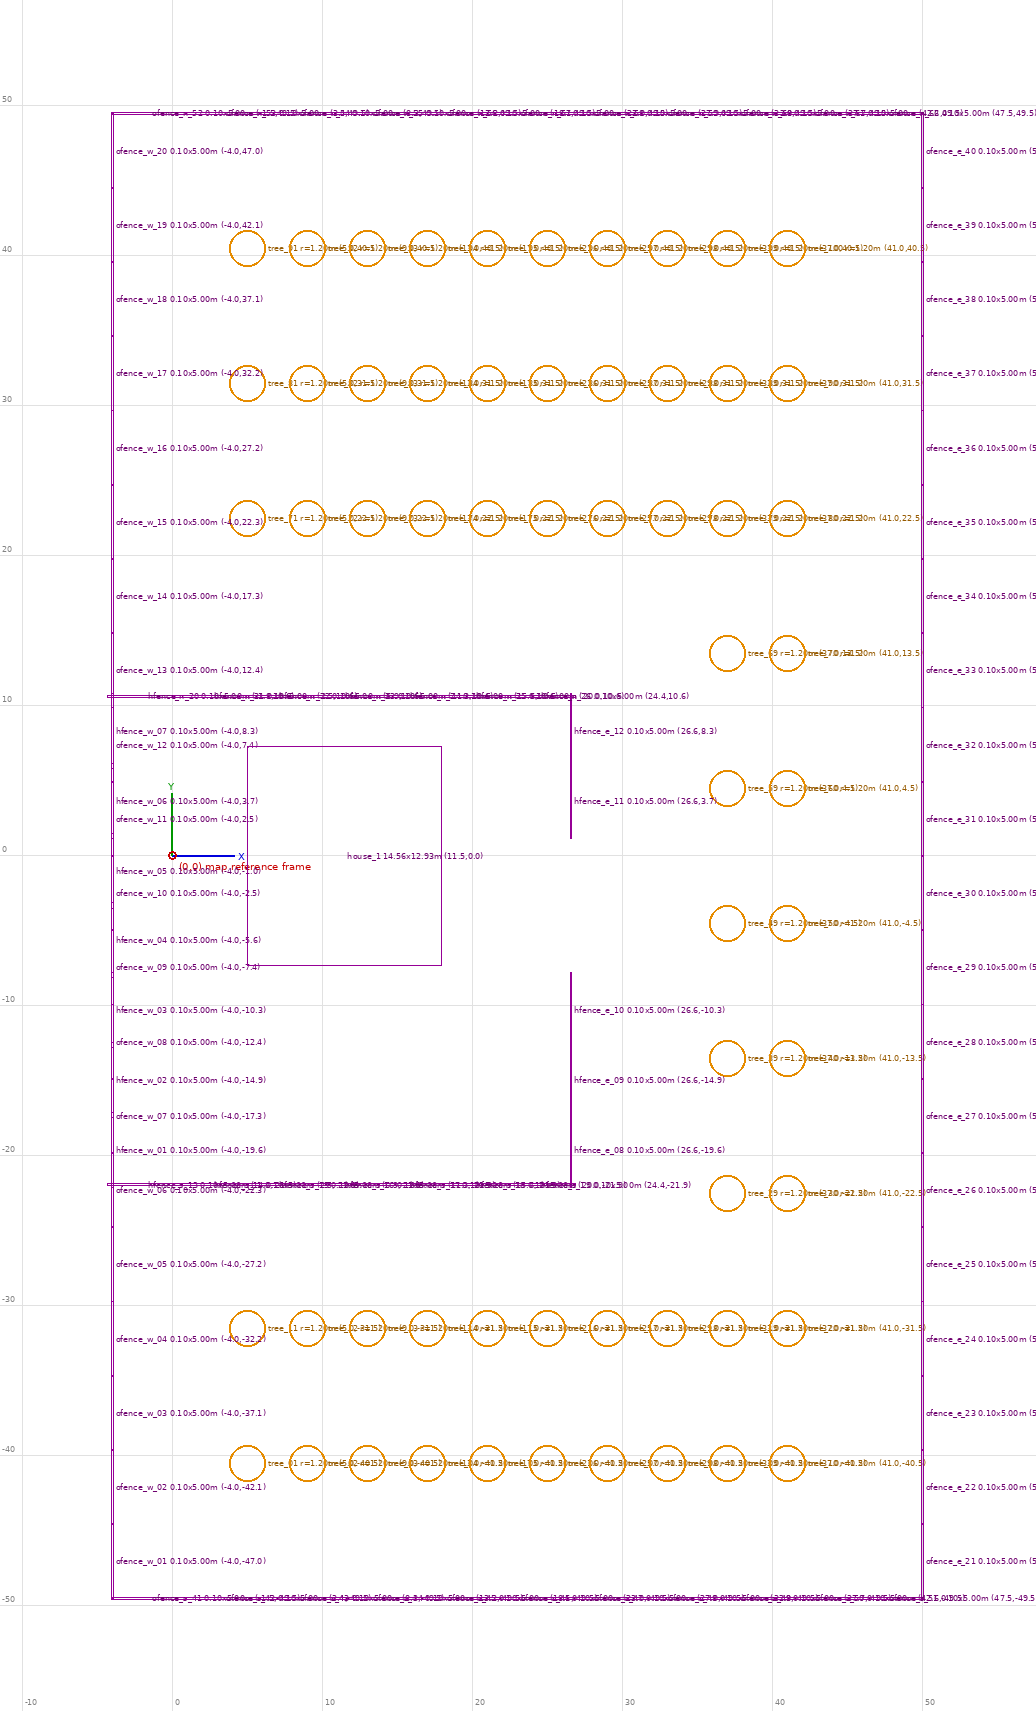
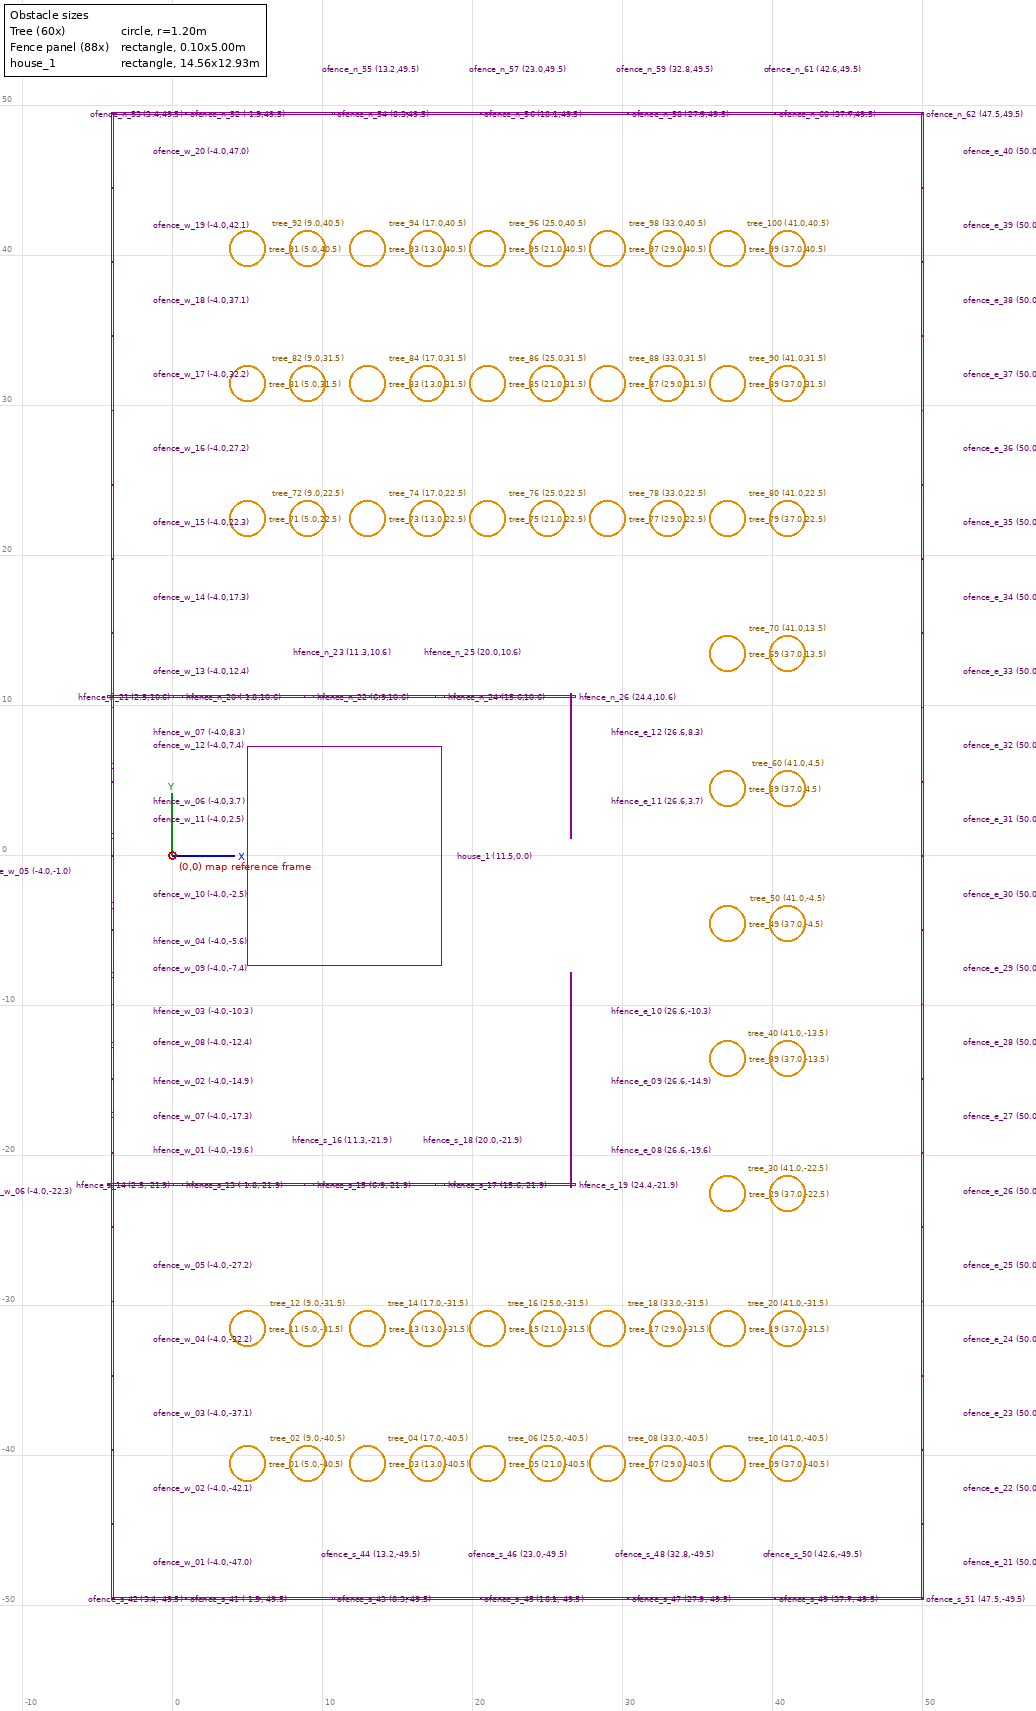
Add obstacle-size table and declutter labels in dimensioned diagrams
Per-instance labels used to repeat each obstacle's full size (~150
times over for map_a's 60 trees + 88 fence panels), badly cluttering
closely-spaced rows. Added a "Obstacle sizes" table (one row per
distinct type -- trees share one radius, fence panels share one size,
the house gets its own row) in the top-left corner, and shortened
per-instance labels to just id + position.

Also added a greedy label-placement pass (_place_label): each label
tries 8 candidate offsets around its own obstacle and picks the first
that doesn't overlap any label already placed (including the
reference-frame label and the size table itself), instead of always
drawing to the same fixed offset -- this is what was piling every
label from a dense row on top of each other. Falls back to the first
candidate (possibly still overlapping) only when every candidate
collides, which still happens in the very tightest rows (4m tree
spacing) -- an inherent density limit, not a placement bug.

Claude-Session: https://claude.ai/code/session_019kPphShrm6yTQXPt3yWx3i

diff --git a/amiga_ros2_gazebo/scripts/world_to_occupancy_map.py b/amiga_ros2_gazebo/scripts/world_to_occupancy_map.py
@@ -287,13 +287,74 @@ def _rect_corners(cx, cy, yaw, size_x, size_y):
             for lx, ly in local_corners]
 
 
+def _place_label(draw, font, anchor_x, anchor_y, text, placed_boxes, color, radius_px=0.0):
+    """Draws `text` near (anchor_x, anchor_y) at whichever of several
+    candidate offsets doesn't overlap a label already placed (tracked in
+    `placed_boxes`, mutated in place) -- a greedy declutterer, since a
+    fixed "always to the right" offset is exactly what piles every
+    label from a row of closely-spaced obstacles on top of each other.
+    `radius_px` pushes candidates outside a circular obstacle's own
+    footprint (0 for a rectangle, whose corners already frame it).
+    Falls back to the first candidate (still drawn, just possibly
+    overlapping) if every candidate collides -- a dense cluster can
+    only be decluttered so far without hiding an obstacle entirely."""
+    bbox = draw.textbbox((0, 0), text, font=font)
+    w, h = bbox[2] - bbox[0], bbox[3] - bbox[1]
+    pad = 2.0
+    offset = radius_px + 3.0
+    candidates = [
+        (offset, -h / 2.0), (-offset - w, -h / 2.0),           # right, left
+        (-w / 2.0, -offset - h), (-w / 2.0, offset),            # above, below
+        (offset, -offset - h), (offset, offset),                # upper/lower-right
+        (-offset - w, -offset - h), (-offset - w, offset),      # upper/lower-left
+    ]
+    chosen = None
+    for dx, dy in candidates:
+        x0, y0 = anchor_x + dx, anchor_y + dy
+        box = (x0 - pad, y0 - pad, x0 + w + pad, y0 + h + pad)
+        if not any(box[0] < b[2] and box[2] > b[0] and box[1] < b[3] and box[3] > b[1]
+                   for b in placed_boxes):
+            chosen = (x0, y0, box)
+            break
+    if chosen is None:
+        dx, dy = candidates[0]
+        x0, y0 = anchor_x + dx, anchor_y + dy
+        chosen = (x0, y0, (x0 - pad, y0 - pad, x0 + w + pad, y0 + h + pad))
+    x0, y0, box = chosen
+    placed_boxes.append(box)
+    draw.text((x0, y0), text, fill=color, font=font)
+
+
+def _size_table(circles, rects):
+    """[(label, size_text), ...] -- one row per DISTINCT obstacle type
+    (trees all share one radius, fence panels all share one size), so
+    the per-instance labels only need to carry id + position, not their
+    size repeated ~150 times over. A house is unique per map, so it
+    gets its own row too rather than being folded into "rects"."""
+    rows = []
+    if circles:
+        radii = sorted({round(r, 3) for _, _, r, _ in circles})
+        radii_text = ", ".join(f"{r:.2f}m" for r in radii)
+        rows.append((f"Tree ({len(circles)}x)", f"circle, r={radii_text}"))
+    fences = [r for r in rects if r[5] != "house_1"]
+    if fences:
+        sizes = sorted({(round(sx, 3), round(sy, 3)) for _, _, _, sx, sy, _ in fences})
+        sizes_text = ", ".join(f"{sx:.2f}x{sy:.2f}m" for sx, sy in sizes)
+        rows.append((f"Fence panel ({len(fences)}x)", f"rectangle, {sizes_text}"))
+    houses = [r for r in rects if r[5] == "house_1"]
+    for _, _, _, sx, sy, name in houses:
+        rows.append((name, f"rectangle, {sx:.2f}x{sy:.2f}m"))
+    return rows
+
+
 def render_dimensioned_image(circles, rects, bounds, out_path, px_per_meter=15.0):
     """<out_path>.png -- a dimensioned technical diagram of the same
     layout build_map rasterizes: the world (map) reference frame's
-    origin/axes, a metre grid, and every obstacle drawn to scale with
-    its own size and (x, y) position (relative to that SAME origin)
-    labeled next to it. For visually auditing the generated geometry,
-    not something map_server ever loads."""
+    origin/axes, a metre grid, a size-per-obstacle-type table, and every
+    obstacle drawn to scale with its own (x, y) position (relative to
+    that SAME origin) labeled next to it -- positioned to avoid
+    overlapping any other label already placed. For visually auditing
+    the generated geometry, not something map_server ever loads."""
     min_x, min_y, max_x, max_y = bounds
     grid_step = 10.0 if max(max_x - min_x, max_y - min_y) > 60.0 else 5.0
 
@@ -305,8 +366,9 @@ def render_dimensioned_image(circles, rects, bounds, out_path, px_per_meter=15.0
     try:
         font = ImageFont.truetype("DejaVuSans.ttf", 10)
         font_small = ImageFont.truetype("DejaVuSans.ttf", 8)
+        font_table = ImageFont.truetype("DejaVuSans.ttf", 11)
     except OSError:
-        font = font_small = ImageFont.load_default()
+        font = font_small = font_table = ImageFont.load_default()
 
     def to_px(x, y):
         # Image row 0 is the TOP (max-y) -- same flip write_map's own
@@ -342,21 +404,52 @@ def render_dimensioned_image(circles, rects, bounds, out_path, px_per_meter=15.0
         draw.ellipse([ox - 4, oy - 4, ox + 4, oy + 4], outline=(200, 0, 0), width=2)
         draw.text((ox + 6, oy + 4), "(0,0) map reference frame", fill=(200, 0, 0), font=font)
 
-    # Trees -- circle to scale + "id r=... (x,y)" label.
+    # Every already-drawn label's own pixel bbox, so later labels can
+    # dodge them -- seeded with the reference-frame label above and the
+    # size table below (drawn first, once its own box is known) so
+    # obstacle labels dodge those too, not just each other.
+    placed_boxes = []
+    if min_x <= 0.0 <= max_x and min_y <= 0.0 <= max_y:
+        ox, oy = to_px(0.0, 0.0)
+        placed_boxes.append((ox - 6, oy - 20, ox + 160, oy + 20))
+
+    # Size-per-obstacle-type table, top-left corner, on its own white
+    # backing so the metre grid behind it doesn't bleed through the text.
+    rows = _size_table(circles, rects)
+    if rows:
+        row_h = 16
+        col_w = max(draw.textbbox((0, 0), label, font=font_table)[2] for label, _ in rows) + 12
+        table_w = col_w + max(
+            draw.textbbox((0, 0), size, font=font_table)[2] for _, size in rows) + 12
+        table_h = row_h * (len(rows) + 1) + 8
+        draw.rectangle([4, 4, 4 + table_w, 4 + table_h], fill="white", outline=(0, 0, 0))
+        draw.text((10, 8), "Obstacle sizes", fill=(0, 0, 0), font=font_table)
+        for i, (label, size) in enumerate(rows):
+            y = 8 + row_h * (i + 1)
+            draw.text((10, y), label, fill=(0, 0, 0), font=font_table)
+            draw.text((10 + col_w, y), size, fill=(0, 0, 0), font=font_table)
+        placed_boxes.append((4, 4, 4 + table_w, 4 + table_h))
+
+    # Trees -- circle to scale + "id (x,y)" label, decluttered.
     for x, y, r, name in circles:
         cx, cy = to_px(x, y)
         rp = r * px_per_meter
         draw.ellipse([cx - rp, cy - rp, cx + rp, cy + rp], outline=(230, 140, 0), width=2)
-        draw.text((cx + rp + 2, cy - 5), f"{name} r={r:.2f}m ({x:.1f},{y:.1f})",
-                   fill=(150, 90, 0), font=font_small)
+        _place_label(draw, font_small, cx, cy, f"{name} ({x:.1f},{y:.1f})",
+                     placed_boxes, (150, 90, 0), radius_px=rp)
 
-    # Fence panels / house -- rotated rectangle to scale + label.
+    # Fence panels / house -- rotated rectangle to scale + label, decluttered.
     for cx, cy, yaw, size_x, size_y, name in rects:
         corners = [to_px(px, py) for px, py in _rect_corners(cx, cy, yaw, size_x, size_y)]
         draw.polygon(corners, outline=(150, 0, 150))
         lx, ly = to_px(cx, cy)
-        draw.text((lx + 3, ly - 5), f"{name} {size_x:.2f}x{size_y:.2f}m ({cx:.1f},{cy:.1f})",
-                   fill=(110, 0, 110), font=font_small)
+        # Half the LONGER side, not the full diagonal (which over-pushes
+        # a long, thin fence panel's label well past where it needs to
+        # clear the shape) -- close enough to "outside the rectangle"
+        # in every candidate direction _place_label tries.
+        half_px = max(size_x, size_y) / 2.0 * px_per_meter
+        _place_label(draw, font_small, lx, ly, f"{name} ({cx:.1f},{cy:.1f})",
+                     placed_boxes, (110, 0, 110), radius_px=half_px)
 
     os.makedirs(os.path.dirname(out_path) or ".", exist_ok=True)
     img.save(out_path)
